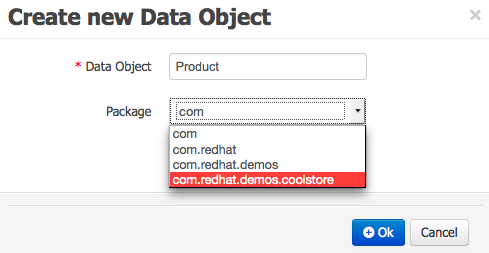
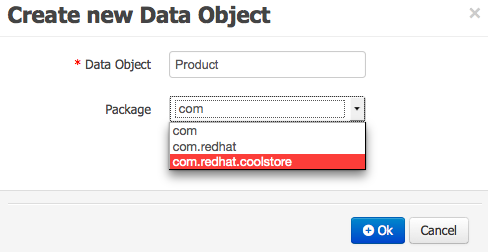
Updated lab 03.

diff --git a/brms-labs/lab03.html b/brms-labs/lab03.html
@@ -87,7 +87,7 @@
                 <li>Create <code>Product</code> in pop-up</li>
                 <ul>
                     <li>Name: <code>Product</code></li>
-                    <li>Package: <code>com.redhat.demos.coolstore</code></li>
+                    <li>Package: <code>com.redhat.coolstore</code></li>
                 </ul>
                 <li>Click on <code>+OK</code></li>
             </ul>
